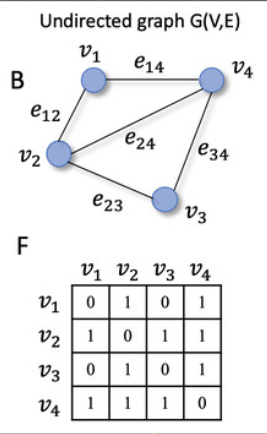
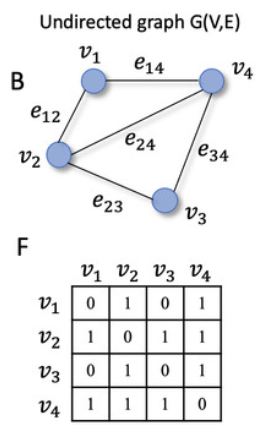
docs: Incorporate user edits to Chapter 2 and updated images

diff --git a/relatorio/Chapters/02-Fundamentacao-Teorica.tex b/relatorio/Chapters/02-Fundamentacao-Teorica.tex
@@ -105,37 +105,23 @@ Dependendo da natureza do jogo ou da história, utilizam-se diferentes tipos de 
     \label{fig:tipos-grafos}
 \end{figure}
 
-\subsection{Grafos Direcionados Acíclicos (\glspl{dag}) vs. Grafos com Ciclos}
-Tradicionalmente, muitas plataformas limitam a escrita a Grafos Direcionados Acíclicos (\textit{Directed Acyclic Graph} - \gls{dag}). A propriedade acíclica garante que é impossível iniciar num vértice $V_i$ e, através de arestas direcionadas, regressar a $V_i$. Isto garante um fluxo estritamente unidirecional e progressivo de causa e efeito, facilitando a aplicação de algoritmos como a Ordenação Topológica (\textit{Topological Sorting}) com complexidade linear, \(\mathcal{O}(|V| + |E|)\). A ordenação topológica (através de abordagens como o algoritmo de Kahn \citep{Kahn1962}) alinha os vértices linearmente, facilitando o cálculo imediato do progresso da história e a identificação do caminho mais rápido.
+\subsection{Grafos Direcionados com Ciclos vs. Acíclicos}
+No desenvolvimento de sistemas narrativos, é frequente restringir a estrutura a Grafos Direcionados Acíclicos (\textit{DAGs}), onde a impossibilidade de regressar a um nó já visitado garante um fluxo estritamente unidirecional. Contudo, esta abordagem impede a criação de mecânicas essenciais como \textit{hubs} centrais de exploração ou sistemas de passagem de tempo baseados em ações recorrentes. 
 
-No entanto, em narrativas complexas, a imposição de \glspl{dag} é altamente limitadora. A impossibilidade de introduzir ciclos impede a criação de:
-\begin{itemize}
-    \item \textbf{Estruturas de Cubo (Hubs):} Onde o jogador explora vários caminhos secundários a partir de uma praça ou menu central e regressa recorrentemente ao mesmo ponto.
-    \item \textbf{Mecânicas de Simulação e Tempo:} Eventos baseados em estados lógicos recorrentes, como ``aguardar um turno'' no mesmo local para fazer avançar variáveis temporais.
-\end{itemize}
+Por este motivo, o \textit{Plot in a Pot} adota um modelo de \textbf{Grafo Direcionado Geral}, admitindo a existência de ciclos lógicos. Esta flexibilidade exige algoritmos de validação estática em segundo plano (como pesquisas \gls{bfs} e \gls{dfs} \citep{CLRS2009}) para garantir a conectividade e detetar anomalias estruturais antes da compilação final.
 
-Por esta razão, o \textit{Plot in a Pot} adota um modelo de \textbf{Grafo Direcionado Geral} que permite ciclos lógicos. Isto requer algoritmos de validação dinâmica em segundo plano (como pesquisas \gls{bfs} e \gls{dfs} \citep{CLRS2009}) para evitar a ocorrência de loops infinitos sem condições de saída logicamente definidas.
-
-\subsection{Análise Matemática da Explosão de Complexidade Lógica}
+\subsection{A Explosão Combinatória e o Espaço de Estados}
 \label{subsec:analise-matematica-complexidade}
 
-A modelação matemática de narrativas interativas permite compreender a necessidade de validadores automatizados ao expor o problema clássico da explosão de estados. Seja $G = (V, E)$ o grafo que modela a história. Se assumirmos uma estrutura de ramificação pura sem ciclos (um grafo em árvore direcionado), com um fator médio de ramificação $b$ (número médio de escolhas por nó) e uma profundidade média da narrativa $d$ (número de passagens percorridas do início ao fim), o número total de caminhos narrativos únicos e independentes $P$ cresce de forma exponencial:
-\[
-P = \mathcal{O}(b^d)
-\]
-Este crescimento exponencial (também conhecido por explosão combinatória ou combinatória de escolhas) torna impossível a um autor auditar manualmente todas as combinações de escolhas possíveis à medida que a história se expande.
+A necessidade de automação no processo de validação torna-se evidente ao analisar o crescimento do fluxo narrativo. Num grafo em árvore pura com um fator médio de ramificação $b$ (escolhas por cena) e uma profundidade média $d$, o número de caminhos únicos $P$ cresce de forma exponencial:
 
-O problema agrava-se substancialmente com a introdução de ciclos (onde $G$ deixa de ser acíclico, permitindo que $V_i \to \dots \to V_i$), uma vez que o número de caminhos matematicamente possíveis passa a ser infinito:
-\[
-P = \infty
-\]
-Neste cenário, a coerência da simulação passa a depender inteiramente da valoração do vetor de variáveis de estado $\sigma$. Definimos o espaço de estados global $\mathcal{S}$ da narrativa como o produto cartesiano entre o conjunto de nós de escrita $\mathcal{N}$ e o conjunto de valorações possíveis das variáveis globais da história. Se considerarmos um conjunto de $|\mathcal{V}|$ variáveis de estado do tipo booleanas (por exemplo, registos de inventário como \texttt{\$tem\_chave} ou escolhas morais binárias), o tamanho máximo do espaço de estados explorável $\mathcal{S}$ é dado por:
-\[
-|\mathcal{S}| = |\mathcal{N}| \times 2^{|\mathcal{V}|}
-\]
-Caso as variáveis tomem valores em domínios numéricos maiores (e.g. inteiros para pontos de vida ou reputação), o espaço cresce de forma ainda mais severa. A introdução de loops infinitos que incrementam repetidamente uma variável sem uma condição de paragem adequada fará com que o espaço de estados se torne teoricamente infinito, o que levaria a que uma travessia cega de pesquisa de caminhos nunca terminasse. 
+$$P = \mathcal{O}(b^d)$$
 
-Esta propriedade matemática demonstra que a validação estrutural simples de grafos geométricos (baseada puramente na conectividade de vértices) é insuficiente em \gls{fi} com lógica condicional. Justifica-se assim o desenvolvimento de um motor de validação estática capaz de explorar o espaço de estados reais $\langle v, \sigma \rangle$ e implementar podas algorítmicas rigorosas para garantir a paragem do algoritmo de verificação.
+Esta explosão combinatória impossibilita a auditoria manual por parte do autor. O cenário complexifica-se com a introdução de ciclos e variáveis de estado (como inventários ou decisões morais), onde o número de caminhos lógicos se torna teoricamente infinito. O tamanho máximo do espaço de estados global explorável $|\mathcal{S}|$ é determinado pelo produto entre o número de nós de escrita $|\mathcal{N}|$ e as combinações das $|\mathcal{V}|$ variáveis booleanas do sistema:
+
+$$|\mathcal{S}| = |\mathcal{N}| \times 2^{|\mathcal{V}|}$$
+
+Se o autor introduzir um ciclo que altere uma destas variáveis sem uma condição de paragem adequada, o sistema entra em colapso lógico. Esta propriedade matemática demonstra que a validação geométrica simples (conectividade de vértices) é insuficiente, justificando o desenvolvimento do motor de verificação estática do projeto para explorar e podar o espaço de estados em tempo útil.
 
 \section{Software de Criação de Histórias não Lineares}
 O conceito de \gls{fi} refere-se a narrativas estruturadas onde a progressão do texto não é linear, dependendo diretamente das escolhas e ações submetidas pelo utilizador para navegar caminhos alternativos \citep{Montfort2005}. Com a expansão do desenvolvimento de videojogos independentes e o crescente estudo de narratologia computacional, diversas ferramentas de autoria emergiram para suportar a criação deste tipo de estruturas ramificadas, destacando-se o Twine, o Ink e o ChoiceScript \citep{IFTFGDC2026}.